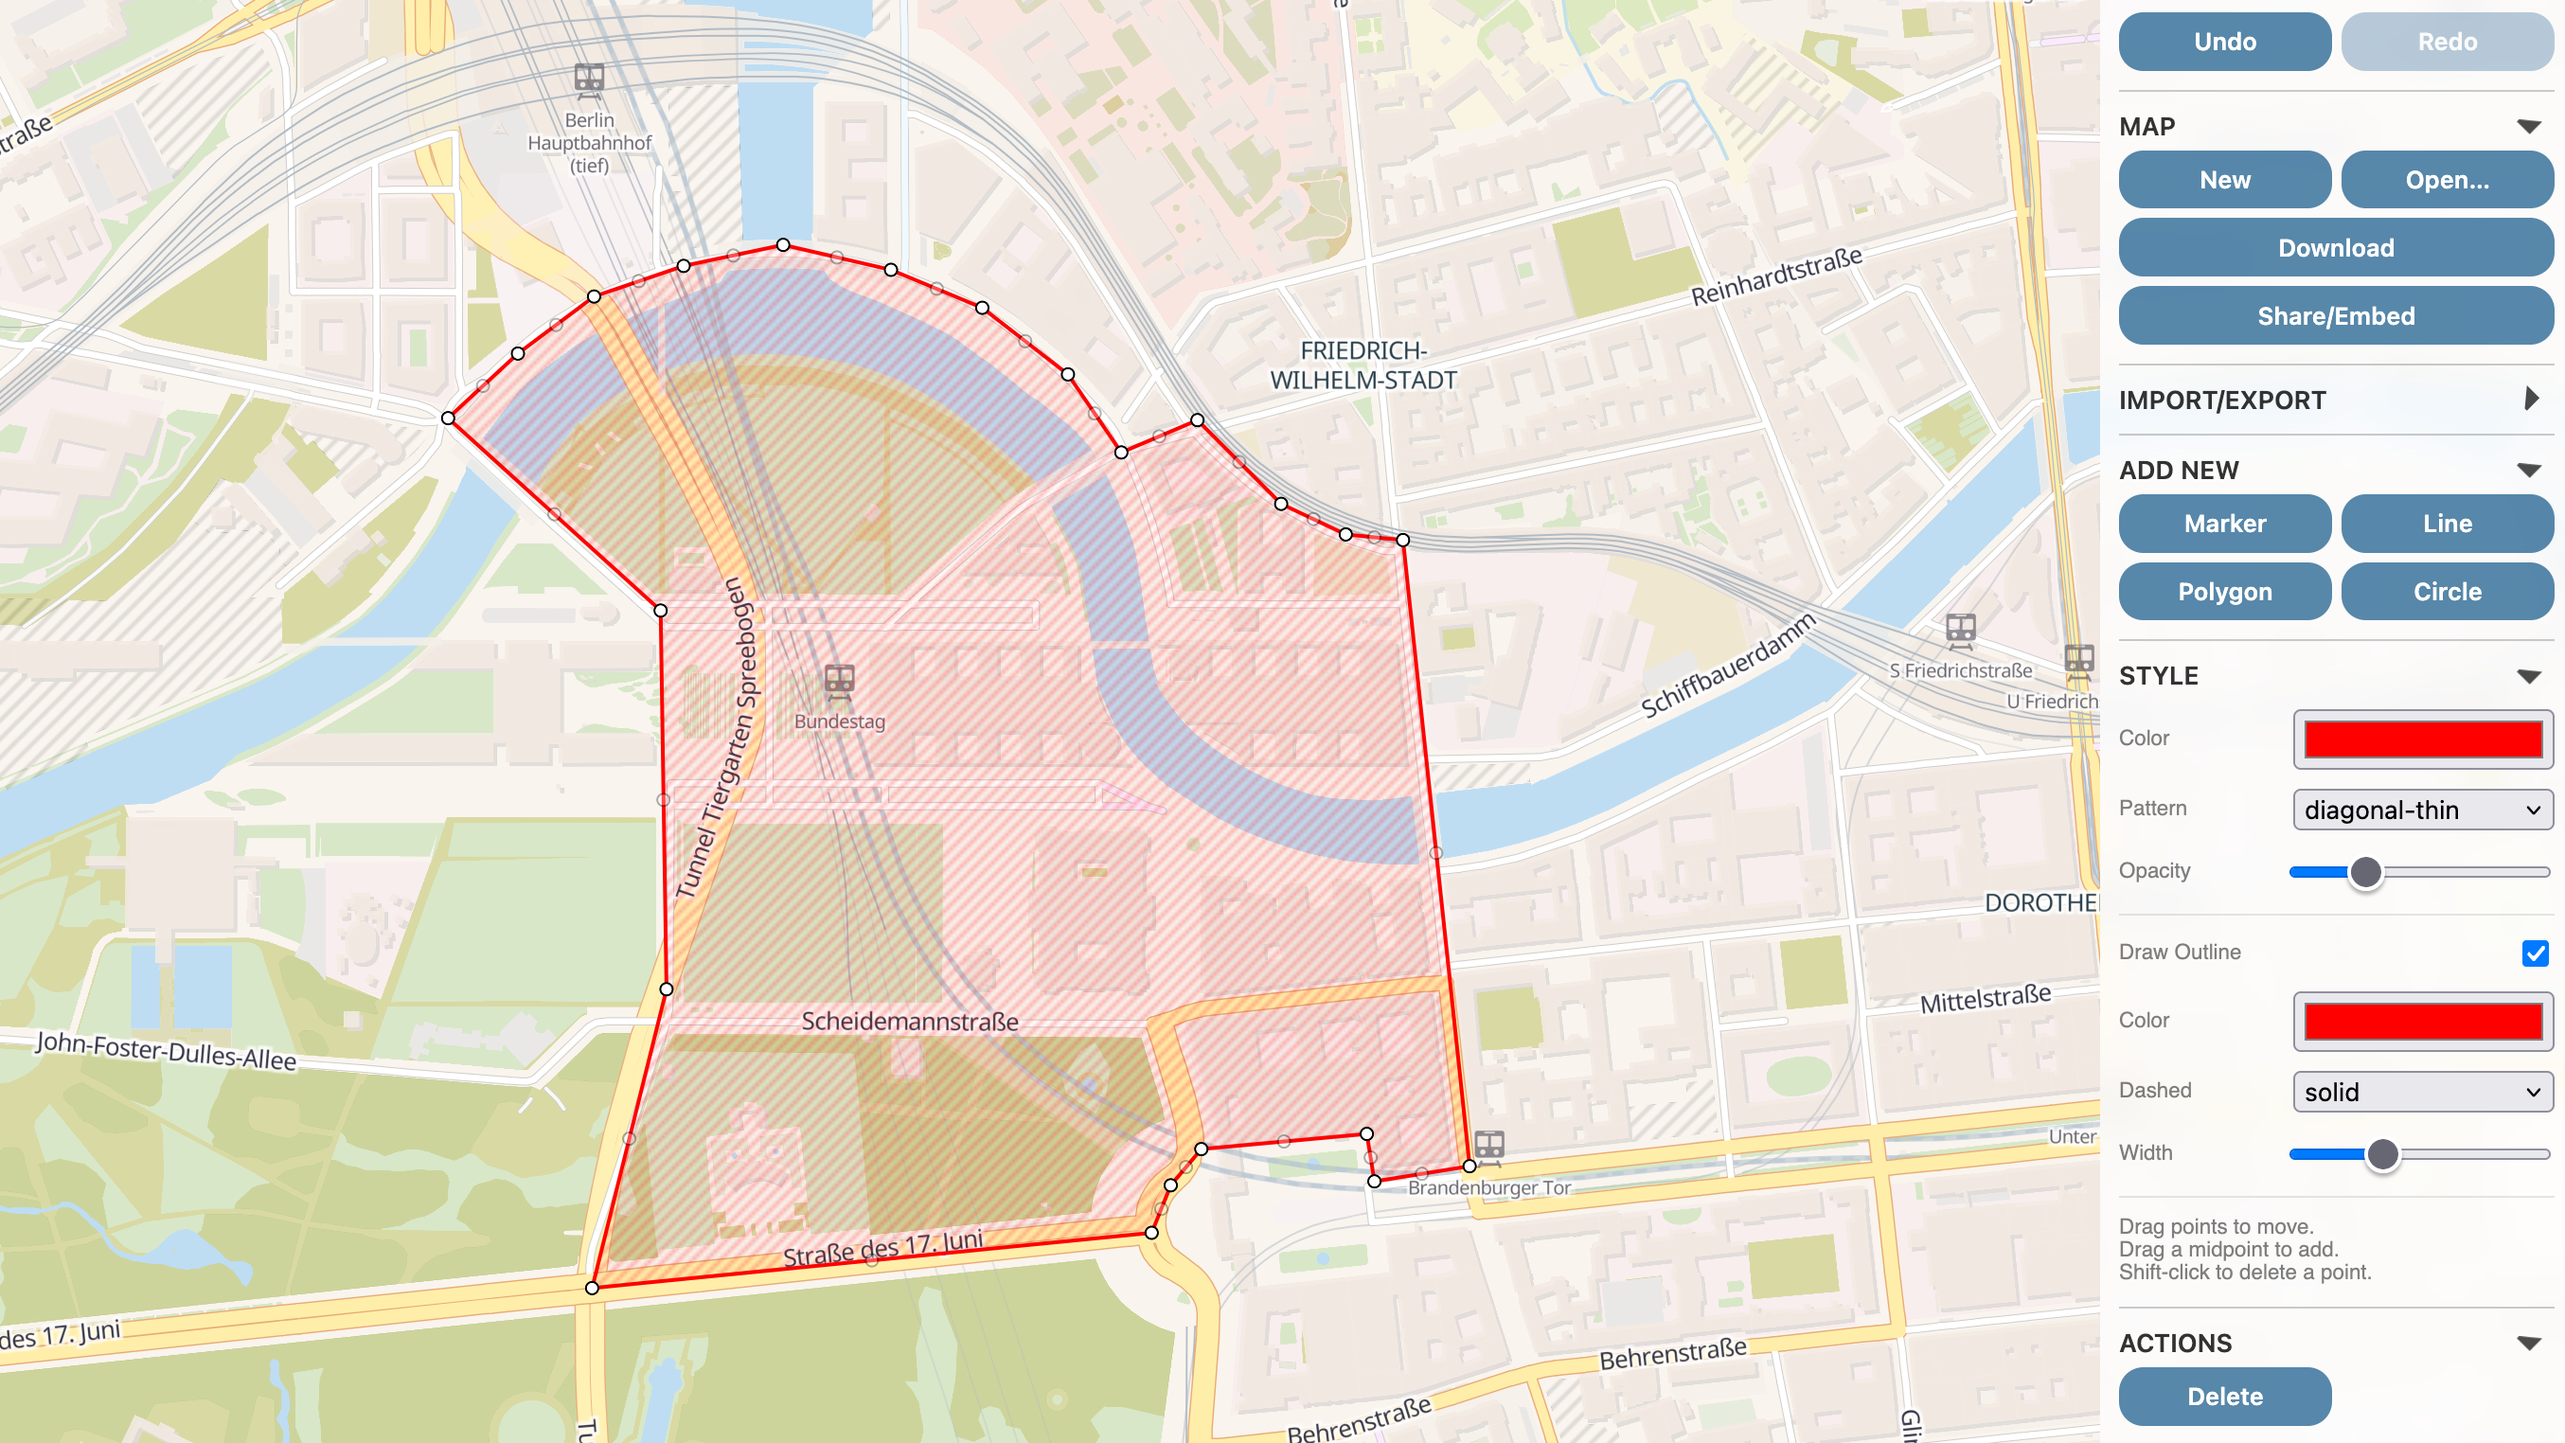
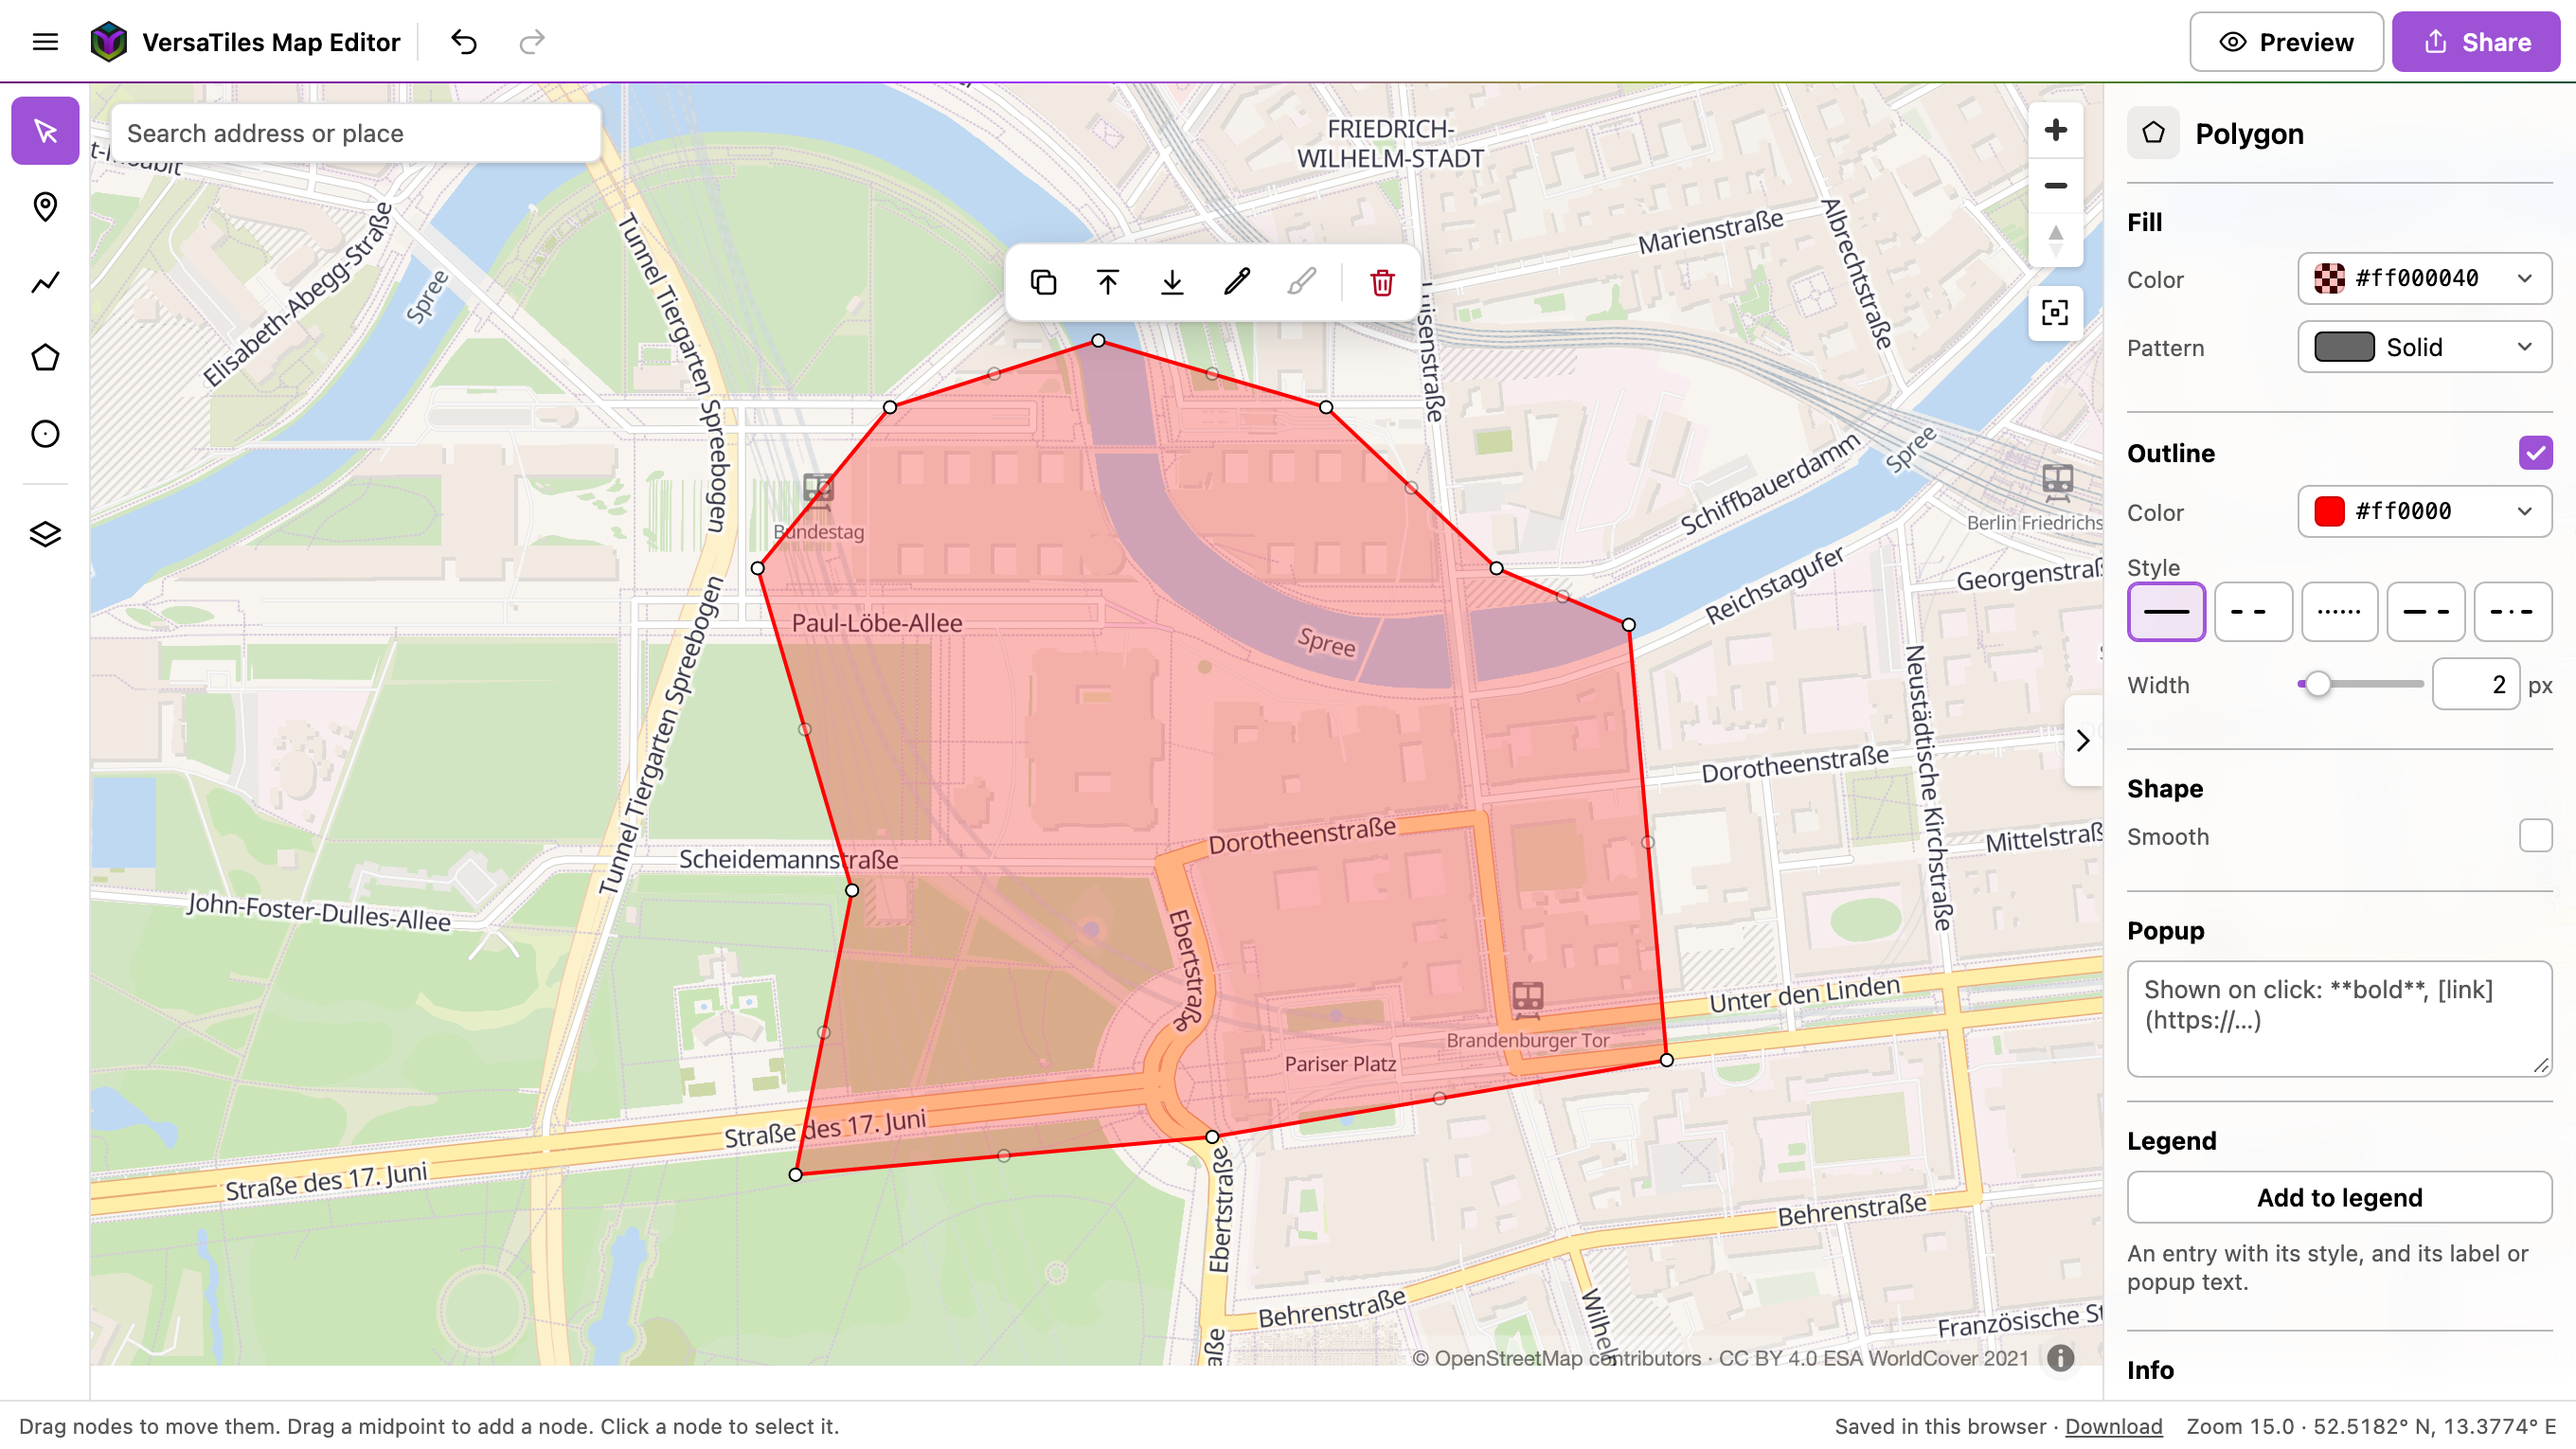
fix: update map editor URLs in cards.yaml and index.html

diff --git a/docs/index.html b/docs/index.html
@@ -267,7 +267,7 @@ menuEntry: Overview
 	<li><strong>2025-03-04</strong> - The documentation moved to its own site: <a
 			href="https://docs.versatiles.org">docs.versatiles.org</a></li>
 	<li><strong>2025-02-01</strong> - We released our free <a
-			href="https://versatiles.org/node-versatiles-svelte/map-editor">map editor</a>.</li>
+			href="https://versatiles.org/versatiles-map-editor/">map editor</a>.</li>
 	<li><strong>2024-09-25</strong> - German magazine <a
 			href="https://www.heise.de/news/VersaTiles-Open-Source-Projekt-als-Alternative-zu-kommerziellen-Kartendiensten-9952858.html">Heise</a>
 		featured VersaTiles as an open alternative to commercial map providers.</li>
@@ -284,7 +284,7 @@ menuEntry: Overview
 		<ul class="roadmap-items">
 			<li class="roadmap-item"><a href="https://docs.versatiles.org">Publish documentation at docs.versatiles.org</a>
 			</li>
-			<li class="roadmap-item"><a href="https://versatiles.org/node-versatiles-svelte/map-editor">Publish map
+			<li class="roadmap-item"><a href="https://versatiles.org/versatiles-map-editor/">Publish map
 					editor</a></li>
 			<li class="roadmap-item"><a
 					href="https://github.com/versatiles-org/versatiles-docker/tree/main/versatiles-nginx">Publish Docker
